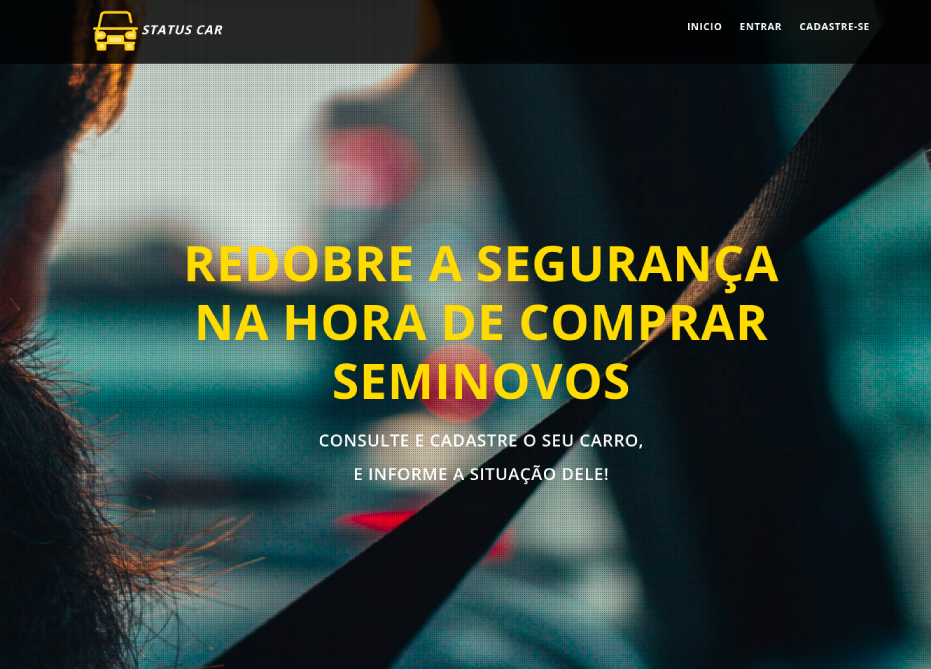
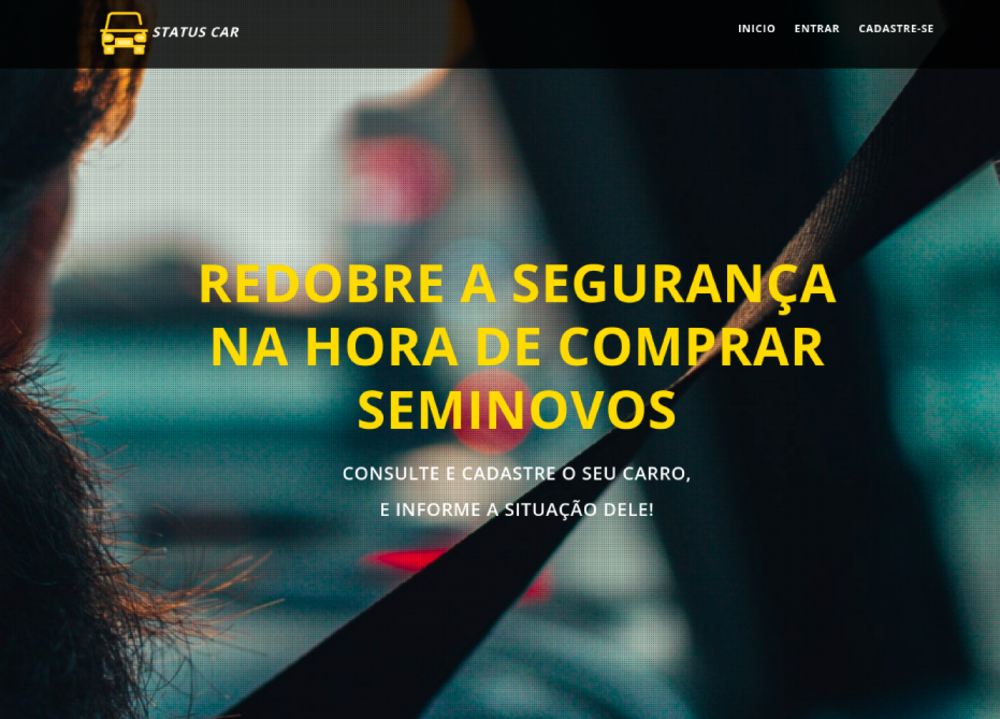
finish the about and contact page

diff --git a/src/components/about/About/index.js b/src/components/about/About/index.js
@@ -10,27 +10,23 @@ import mongodbIcon from "./../../../assets/images/mongodbIcon.png";
 const About = () => {
   return (
     <div className="container">
-      {/* <h1 className="text">Sou desenvolvedor Front End/Full Stack</h1> */}
-      <div className="imagesIcons">
-        <img className="imagesSize" src={htmlIcon} alt="" />
-        <img className="imagesSize" src={cssIcon} alt="" />
-        <img className="imagesSize" src={reactIcon} alt="" />
-        <img className="imagesSize" src={jsIcon} alt="" />
-        <img className="imagesSize" src={nodeIcon} alt="" />
-        <img className="imagesSize" src={mongodbIcon} alt="" />
+      <h1 className="about__title">
+        Transformo suas ideias em aplicações funcionais
+      </h1>
+      <div className="about__icons">
+        <img className="images__size" src={htmlIcon} alt="" />
+        <img className="images__size" src={cssIcon} alt="" />
+        <img className="images__size" src={reactIcon} alt="" />
+        <img className="images__size" src={jsIcon} alt="" />
+        <img className="images__size" src={nodeIcon} alt="" />
+        <img className="images__size" src={mongodbIcon} alt="" />
       </div>
-      <p className="text">
+      <p className="about__text">
         Com conhecimento e domínio das tecnologias HTML, CSS, React, JavaScript,
-        Node.js, MongoDb,Express.js, banco de dados NoSQ, Linguagem C, métodos
+        Node.js, MongoDb, Express.js, banco de dados NoSQ, Linguagem C, métodos
         ágeis e controle de versionamento com Git e GitHub.
       </p>
-      {/* <p className="text">
-        Venho adquirindo conhecimento e domínio nas tecnologias citadas acima.
-        <br />
-        Esses conhecimentos vieram de muito estudo e prática no bootcamp da
-        Ironhack, Impacta,Escola 42 de tecnologia e cursos livres.
-      </p> */}
-      <p className="text">
+      <p className="about__text">
         Além de habilidades técnicas, falo inglês e francês, possuo facilidade
         de aprendizado, facilidade para trabalhar em equipe, seja em pair
         programming ou com outros times internos, gosto de colaborar e oferecer

diff --git a/src/components/about/About/style.css b/src/components/about/About/style.css
@@ -1,33 +1,16 @@
-.text {
-  color: white;
-  font-size: 24px;
-  /* display: flex; */
-  /* justify-content: center; */
-  /* align-content: center; */
-  text-align: center;
-  /* flex-direction: column; */
-  padding: 40px;
-  /* font-size: 20px; */
-}
-
-/* img {
-  width: 72px;
-} */
-
-.imagesSize {
-  width: 72px;
-  /* display: flex; */
-  align-self: center;
-}
-
 .container {
   display: flex;
   justify-content: center;
-  /* flex-direction: row; */
   flex-direction: column;
 }
 
-.imagesIcons {
+.about__title {
+  color: rgb(228, 228, 228);
+  text-align: center;
+  margin-bottom: 40px;
+}
+
+.about__icons {
   background-color: rgb(240, 228, 228);
   display: flex;
   flex-direction: row;
@@ -38,6 +21,19 @@
   width: 80%;
   border-radius: 8px;
   box-shadow: 0 4px 8px 0 rgba(0, 0, 0, 0.2), 0 6px 20px 0 rgba(0, 0, 0, 0.19);
-  margin-top: 80px;
-  margin-bottom: 50px;
+  margin-top: 4px;
+  margin-bottom: 32px;
+}
+
+.images__size {
+  width: 72px;
+  align-self: center;
+}
+
+.about__text {
+  color: white;
+  font-size: 20px;
+  text-align: center;
+  line-height: 40px;
+  width: 80%;
 }

diff --git a/src/components/contact/Contact/index.js b/src/components/contact/Contact/index.js
@@ -1,20 +1,24 @@
 import React from "react";
 import "./style.css";
 import linkedinIcon from "./../../../assets/images/linkedinIcon.png";
+import { FaLinkedin } from "react-icons/fa";
 
 const Contact = () => {
   return (
     <div className="container">
-      <h1>Vamos bater um papo para me conhecer melhor</h1>
-      <p className="contactText">Email: cmsgalindo@gmail.com</p>
-      <a
-        className="containerLink"
-        href="https://www.linkedin.com/in/sebastiaogalindo/"
-        target="_blank"
-        rel="noopener noreferrer"
-      >
-        <img src={linkedinIcon} alt="" />
-      </a>
+      <h1 className="contact__title">
+        Vamos bater um papo para me conhecer melhor
+      </h1>
+      <p className="contact__email">Email: cmsgalindo@gmail.com</p>
+      <div className="contact__icon">
+        <a
+          href="https://www.linkedin.com/in/sebastiaogalindo/"
+          target="_blank"
+          rel="noopener noreferrer"
+        >
+          <FaLinkedin size="56px" color="#FFFFFF" />
+        </a>
+      </div>
     </div>
   );
 };

diff --git a/src/components/home/Home/Navbar/index.js b/src/components/home/Home/Navbar/index.js
@@ -1,6 +1,7 @@
 import React from "react";
 import "../../../../styles.css";
 import "./style.css";
+import logo from "../../../../assets/images/logo.png";
 import brazilFlag from "../../../../assets/images/brazil.png";
 import franceFlag from "../../../../assets/images/france.png";
 import britishflag from "../../../../assets/images/england.png";
@@ -11,7 +12,9 @@ const Navbar = () => {
   return (
     <header className="container container--navbar">
       <div className="content navbar">
-        <div className="navbar__logo">&lt; SCG /&gt;</div>
+        <div className="navbar__logo">
+          <img src={logo} alt="logo" />
+        </div>
         <nav className="navbar__nav">
           <NavLink
             exact

diff --git a/src/components/contact/Contact/style.css b/src/components/contact/Contact/style.css
@@ -5,21 +5,28 @@
   align-content: center;
 }
 
-.container h1 {
-  color: white;
-  /* padding: 100px; */
+.contact__title {
+  color: rgb(240, 236, 236);
+  margin-bottom: 80px;
 }
 
-.contactText {
+.contact__email {
   background-color: rgb(240, 228, 228);
   padding: 20px;
   font-size: 24px;
   border-radius: 8px;
+  margin-bottom: 80px;
   color: rgb(39, 39, 114);
   box-shadow: 0 4px 8px 0 rgba(0, 0, 0, 0.2), 0 6px 20px 0 rgba(0, 0, 0, 0.19);
 }
 
-.containerLink {
-  width: 70px;
+.contact__icon svg {
   margin-top: 40px;
+  margin: 0 16px;
+  transition: all 400ms ease-in-out;
+}
+
+.contact__icon svg:hover {
+  color: #ccc !important;
+  transition: all 200ms ease-in-out;
 }

diff --git a/src/components/portfolio/Portfolio/Card/style.css b/src/components/portfolio/Portfolio/Card/style.css
@@ -7,7 +7,6 @@
   display: flex;
   flex-direction: column;
   align-items: center;
-  padding: 16px;
   transition: all 200ms ease-in-out;
 }
 
@@ -17,13 +16,13 @@
 }
 
 .card__img {
-  height: 200px;
-  width: 200px;
+  height: 220px;
+  width: 300px;
   display: flex;
   justify-content: center;
   align-items: center;
   overflow: hidden;
-  border-radius: 50%;
+  border-radius: 2%;
 }
 
 .card__img img {

diff --git a/src/components/home/Home/Navbar/style.css b/src/components/home/Home/Navbar/style.css
@@ -12,14 +12,7 @@
 }
 
 .navbar__logo {
-  color: white;
-  font-weight: bold;
-  font-family: Arial, Helvetica, sans-serif;
-  font-size: 20px;
-  height: 100%;
-  align-items: center;
-  display: flex;
-  justify-content: center;
+  width: 64px;
 }
 
 .navbar__nav {

diff --git a/src/utils/projects.js b/src/utils/projects.js
@@ -1,4 +1,4 @@
-import gameHome from "../assets/images/gameHome.png";
+import gameHome from "../assets/images/gamehome.png";
 import statuscar from "../assets/images/statuscar.png";
 
 export default [
